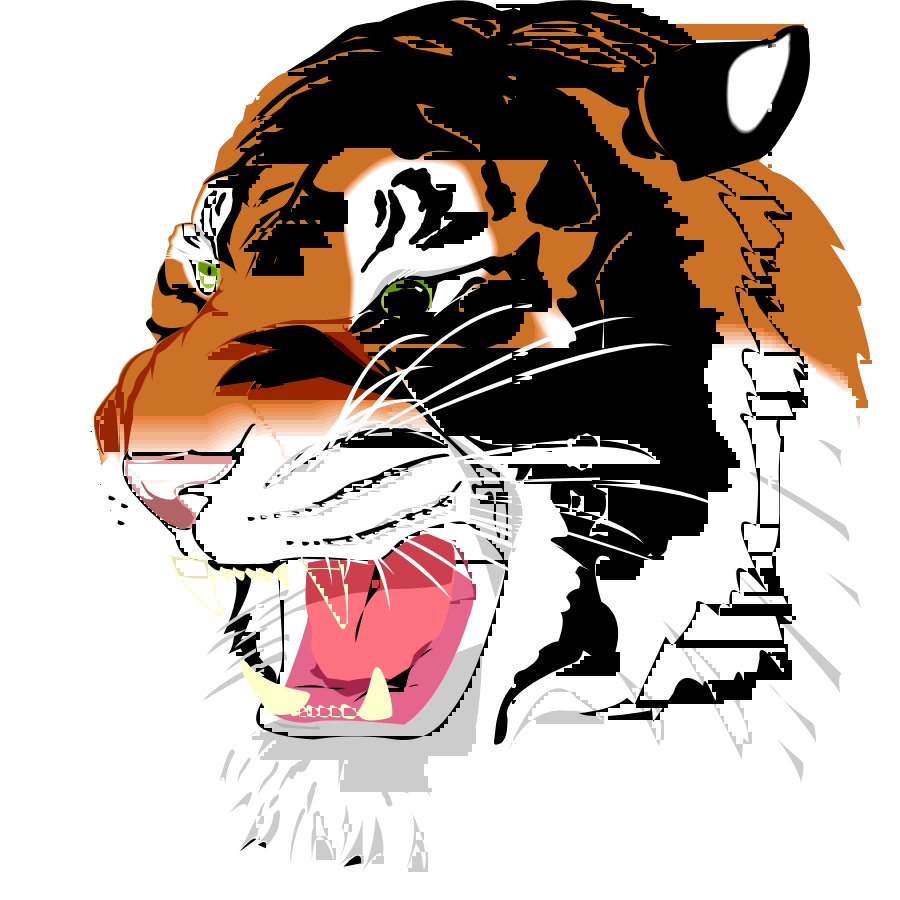
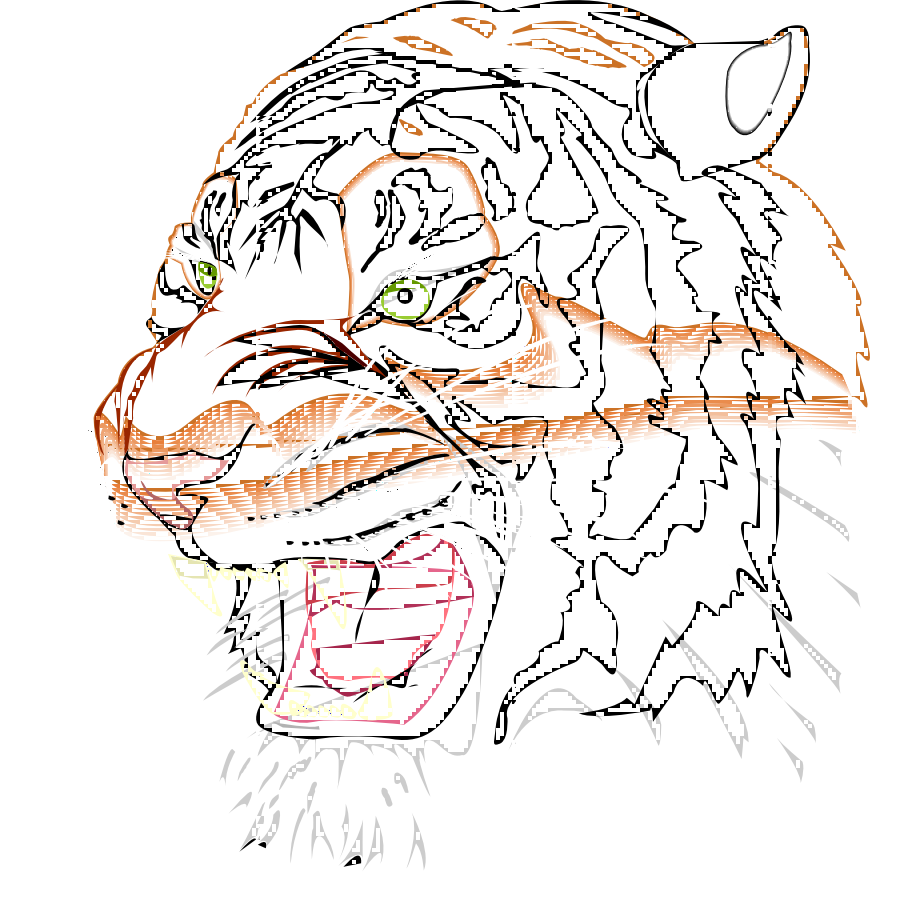
fix: offset calculation when 1 strip  emit command to many widetile

diff --git a/Sources/strip102/SparseStrips.swift b/Sources/strip102/SparseStrips.swift
@@ -81,18 +81,17 @@ func drawSparseSprips(
       // in tile unit (w)
       let coverageWidth =
         coverageBuffer.coverages[Int(strip.coverageIndex)].buffer.count / (tileSize * tileSize)
-      var coverageW = coverageWidth
       // in tile size
 
       // strip may got split
       // in wideTile index
       let wideTileXStart = Int(strip.x * 4 / 256)
       // wideTileX where this end
-      let wideTileXEnd = Int(strip.x) + coverageW * 4 / 256
+      let wideTileXEnd = Int(strip.x) + coverageWidth * 4 / 256
       let wideTileY = Int(strip.y)
 
-      // 1 widetile is 64 4x4 tile, tile unit
-      var x: UInt16 = UInt16(Int(strip.x) - wideTileXStart * 64)
+      // 1 widetile is 64 4x4 tile, tile unit, relative to wideTile start
+      let x: UInt16 = UInt16(Int(strip.x) - wideTileXStart * 64)
 
       if strip.shouldFillLeft, let lastStripEnd, wideTileY == lastStripEnd.y {
         // fill the gap between the end of the previous strip and the start of
@@ -118,13 +117,19 @@ func drawSparseSprips(
         }
       }
 
+      // in tile unit
+      var areaLeft = coverageWidth
+      var currentX = x // relative to widetile
+      var currentOffset = 0
       for wideTileX in wideTileXStart...wideTileXEnd {
         let wideTileIndex = wideTileX + wideTileY * wideTileXCount
         // in tile unit (w)
-        let areaLeft = Int(64 - x)
-        let w = min(coverageW, areaLeft)
+        let consumed = min(areaLeft, 64)
+
+
         // TODO: verify this
         // in pixel, but it will always be divisible by 16 tho
+
 
         if wideTileIndex >= wideTileCommands.count {
           break
@@ -132,16 +137,18 @@ func drawSparseSprips(
 
         wideTileCommands[wideTileIndex].append(
           WideTileDrawOp.aa(
-            x: x,
-            w: UInt16(w),  // it tile unit, should not overflow
+            x: currentX,
+            w: UInt16(consumed),  // it tile unit, should not overflow
             ops[i].color,
             index: UInt(strip.coverageIndex),
-            offset: UInt16(0)
+            offset: UInt16(currentOffset)
           )
         )
         // x will always be 0 in later iteration
-        x = 0
-        coverageW -= w
+
+        currentOffset += consumed
+        areaLeft -= consumed
+        currentX = 0
       }
 
       lastStripEnd = (x: Int(strip.x) + coverageWidth, y: wideTileY)
@@ -410,12 +417,14 @@ func generateStrips(
     let x = tiles[i].x
     let y = tiles[i].y
 
+    // print("Start tile at \(start) \(tiles[start])")
     while i < tiles.count - 1 {
       if tiles[i].hasWinding {
         winding += tiles[i].line.direction > 0 ? 1 : -1
         // print("winding=\(winding)")
       }
 
+      // TODO: bounds check here
       let next = tiles[i + 1]
       if next.y == tiles[i].y && next.x - tiles[i].x <= 1 {
         i += 1
@@ -426,15 +435,21 @@ func generateStrips(
 
     // zeroing only needed
     let stripWidth = Int(tiles[i].x - tiles[start].x + 1)
+    // if stripWidth == 1 {
+    //   print("> break tile at \(i)  \(tiles[i])")
+    // }
+
     scratchBuffer.extracting(0..<stripWidth * coverageBuffer.tileSize * coverageBuffer.tileSize)
       .update(repeating: 0.0)
     // scratchBuffer.initialize(repeating: 0.0)
 
     // allocate buffer, known size
     let coverage = coverageBuffer.allocate(stripWidth)
-    // print(
-    //   "Compute coverage: background=\(w) stripWidth=\(stripWidth), tiles[\(start)...\(i)], x: \(tiles[start].x)...\(tiles[i].x) y: \(tiles[start].y)...\(tiles[i].y)"
-    // )
+    if stripWidth == 5 {
+      print(
+        "Compute coverage: background=\(w) stripWidth=\(stripWidth), tiles[\(start)...\(i)], x: \(tiles[start].x)...\(tiles[i].x) y: \(tiles[start].y)...\(tiles[i].y)"
+      )
+    }
 
     let range = tiles.extracting(start...i)
     computeCoverage(
@@ -443,9 +458,12 @@ func generateStrips(
       buffer: coverage.buffer,
       scratchBuffer: scratchBuffer,
       background: w,
+      stripWidth: stripWidth
     )
 
-    // coverageBuffer.print(index: coverage.index)
+    if stripWidth == 5 {
+      coverageBuffer.print(index: coverage.index)
+    }
 
     // TODO: fill rule
     strips.append(Strip(x: x, y: y, coverageIndex: UInt16(coverage.index), shouldFillLeft: w != 0))
@@ -462,7 +480,8 @@ func computeCoverage(
   tileSize: Int,
   buffer: UnsafeMutableBufferPointer<Float16>,  // fill
   scratchBuffer: UnsafeMutableBufferPointer<Float16>,  // coverage
-  background: Int
+  background: Int,
+  stripWidth: Int
 ) {
   // in pixel
   let stripStartY = Float(tiles[0].y) * 4
@@ -504,13 +523,23 @@ func computeCoverage(
   let fill: UnsafeMutablePointer<SIMD4<Float16>> = UnsafeMutablePointer<SIMD4<Float16>>(
     OpaquePointer(buffer.baseAddress))!
   let coverage = UnsafeMutablePointer<SIMD4<Float16>>(OpaquePointer(scratchBuffer.baseAddress))!
-  var acc: SIMD4<Float> = .zero
+  var acc: SIMD4<Float> = SIMD4(repeating: Float(background))
 
-  for x in 0..<(tiles[tiles.count - 1].x - tiles[0].x + 1) * 4 {
-    fill[Int(x)] = SIMD4<Float16>(SIMD4<Float>(fill[Int(x)]) + acc + Float(background))
+  for x in 0..<stripWidth * 4 {
+    let f = SIMD4<Float>(fill[Int(x)]) + acc
+    fill[Int(x)] = SIMD4<Float16>(f)
     acc += SIMD4<Float>(coverage[Int(x)])
+
+    // if buffer.count / (tileSize * tileSize) == 5 {
+    //   fill[Int(x)] = .one / 4
+    // }
   }
 
+  // fill[0] = .one / 12 * Float16(buffer.count / (tileSize * tileSize))
+  // if buffer.count / (tileSize * tileSize) == 5 {
+  //   fill[0] = .one / 3
+  //   // for
+  // }
 }
 
 enum WideTileDrawOp {

diff --git a/Sources/strip102/strip102.swift b/Sources/strip102/strip102.swift
@@ -43,9 +43,10 @@ struct strip102: ParsableCommand {
         var path = Path()
         // path.quad(to: Point(100, 100), control: Point(0, 100))
         let n: Float = 9.0
-        path.move(to: Point(1, 2))
+        path.move(to: Point(19 * n, 2 * n))
         path.line(to: Point(15 * n, 8 * n))
-        path.line(to: Point(15 * n, 2 * n))
+        path.line(to: Point(20 * n, 2 * n))
+        path.line(to: Point(19 * n, 2 * n))
 
 
         // let offset = Point(1, 1)